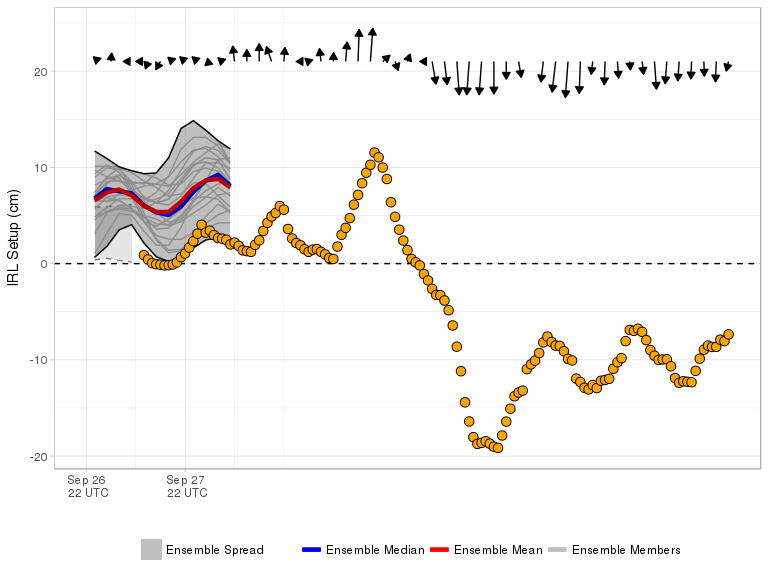
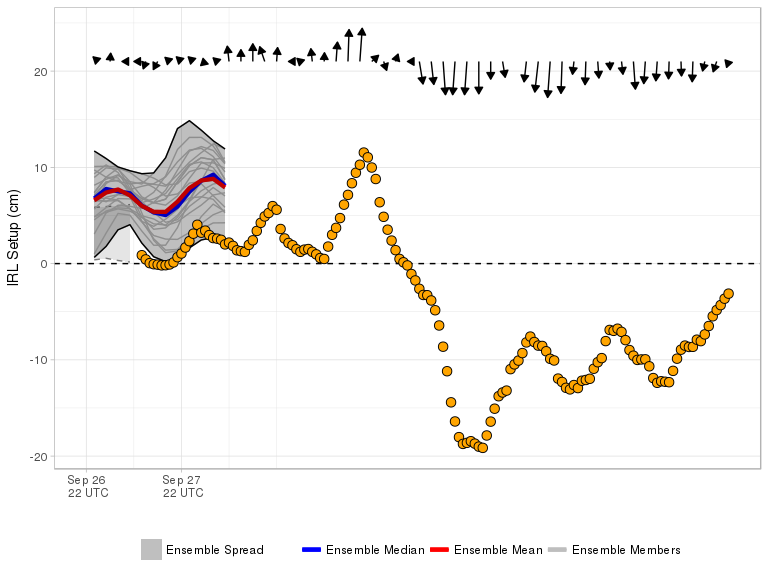
Forecast Update 2020100312

diff --git a/docs/index.md b/docs/index.md
@@ -1,9 +1,9 @@
-Current Forecast 2020-10-03 06Z
+Current Forecast 2020-10-03 12Z
 -----------------------------------
 
 [![](img/raw_setup.png)](https://fit-winds.github.io/IRLSetup/img/raw_setup.png)
 
-> Forecast valid 2020-10-03 06:59:53.
+> Forecast valid 2020-10-03 13:01:59.
 
 Explanation
 -----------
